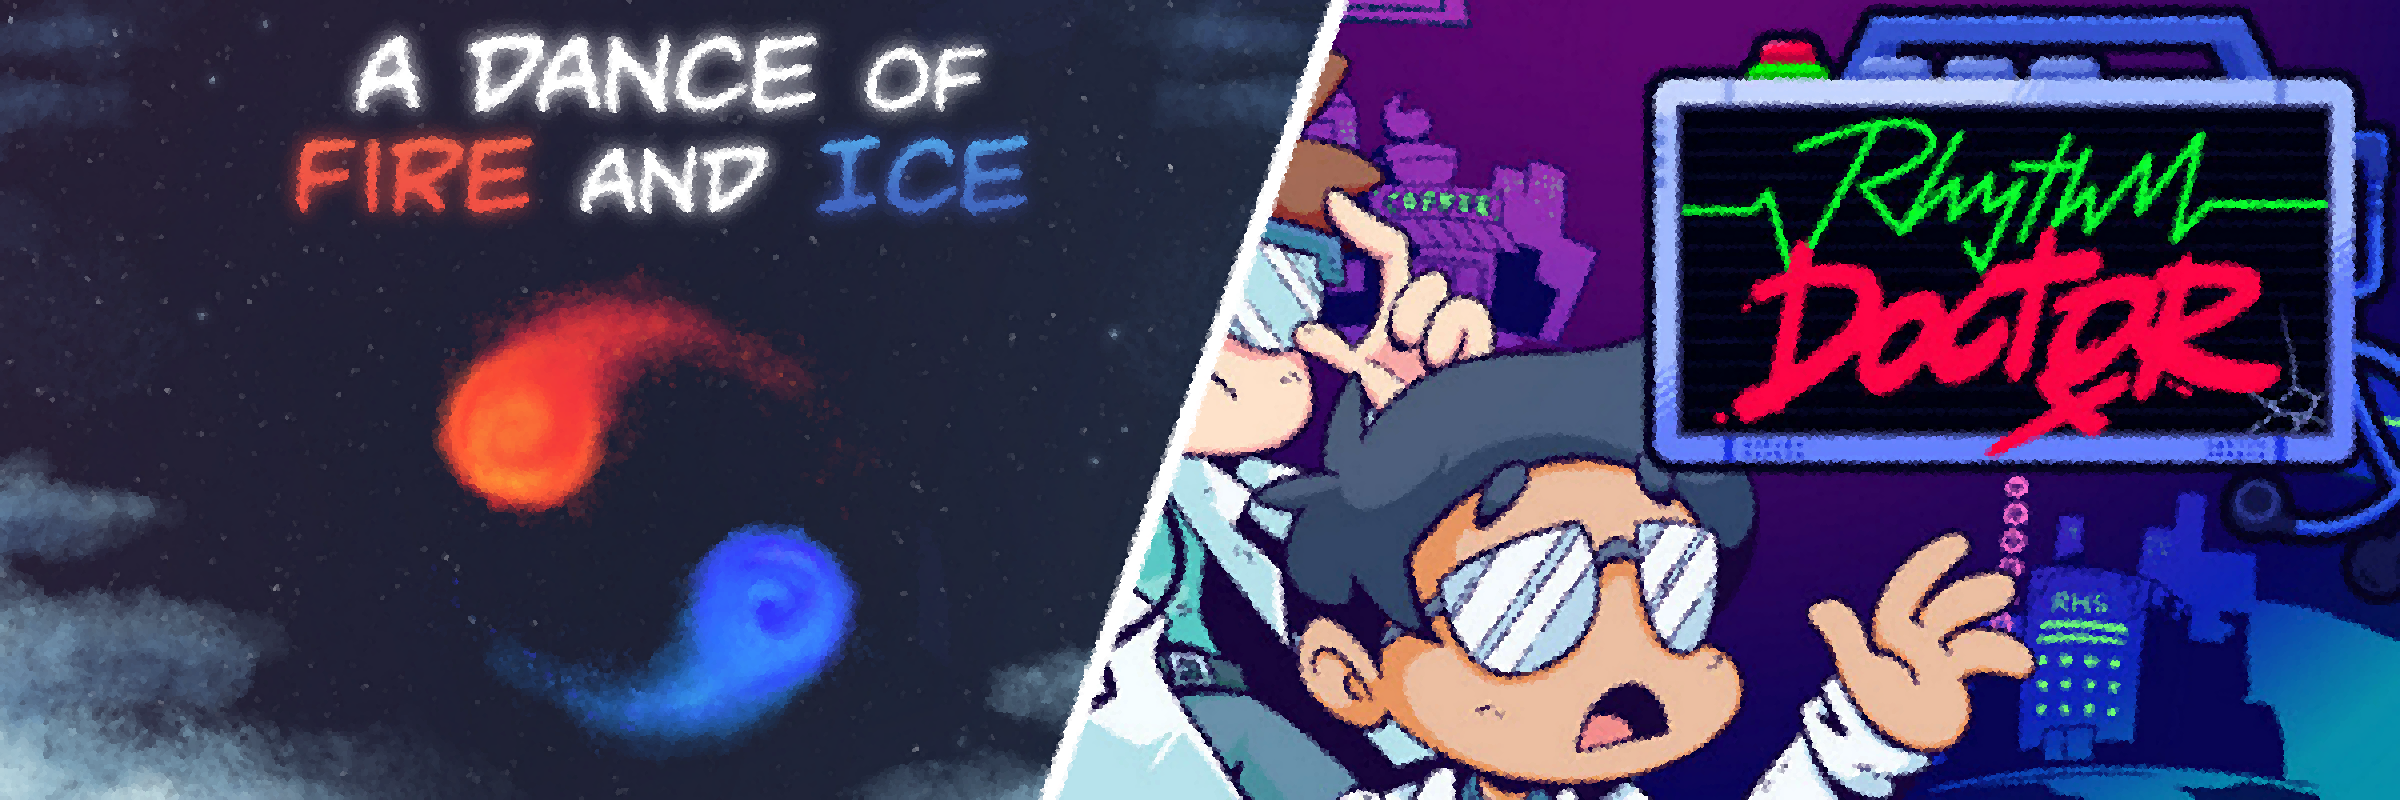
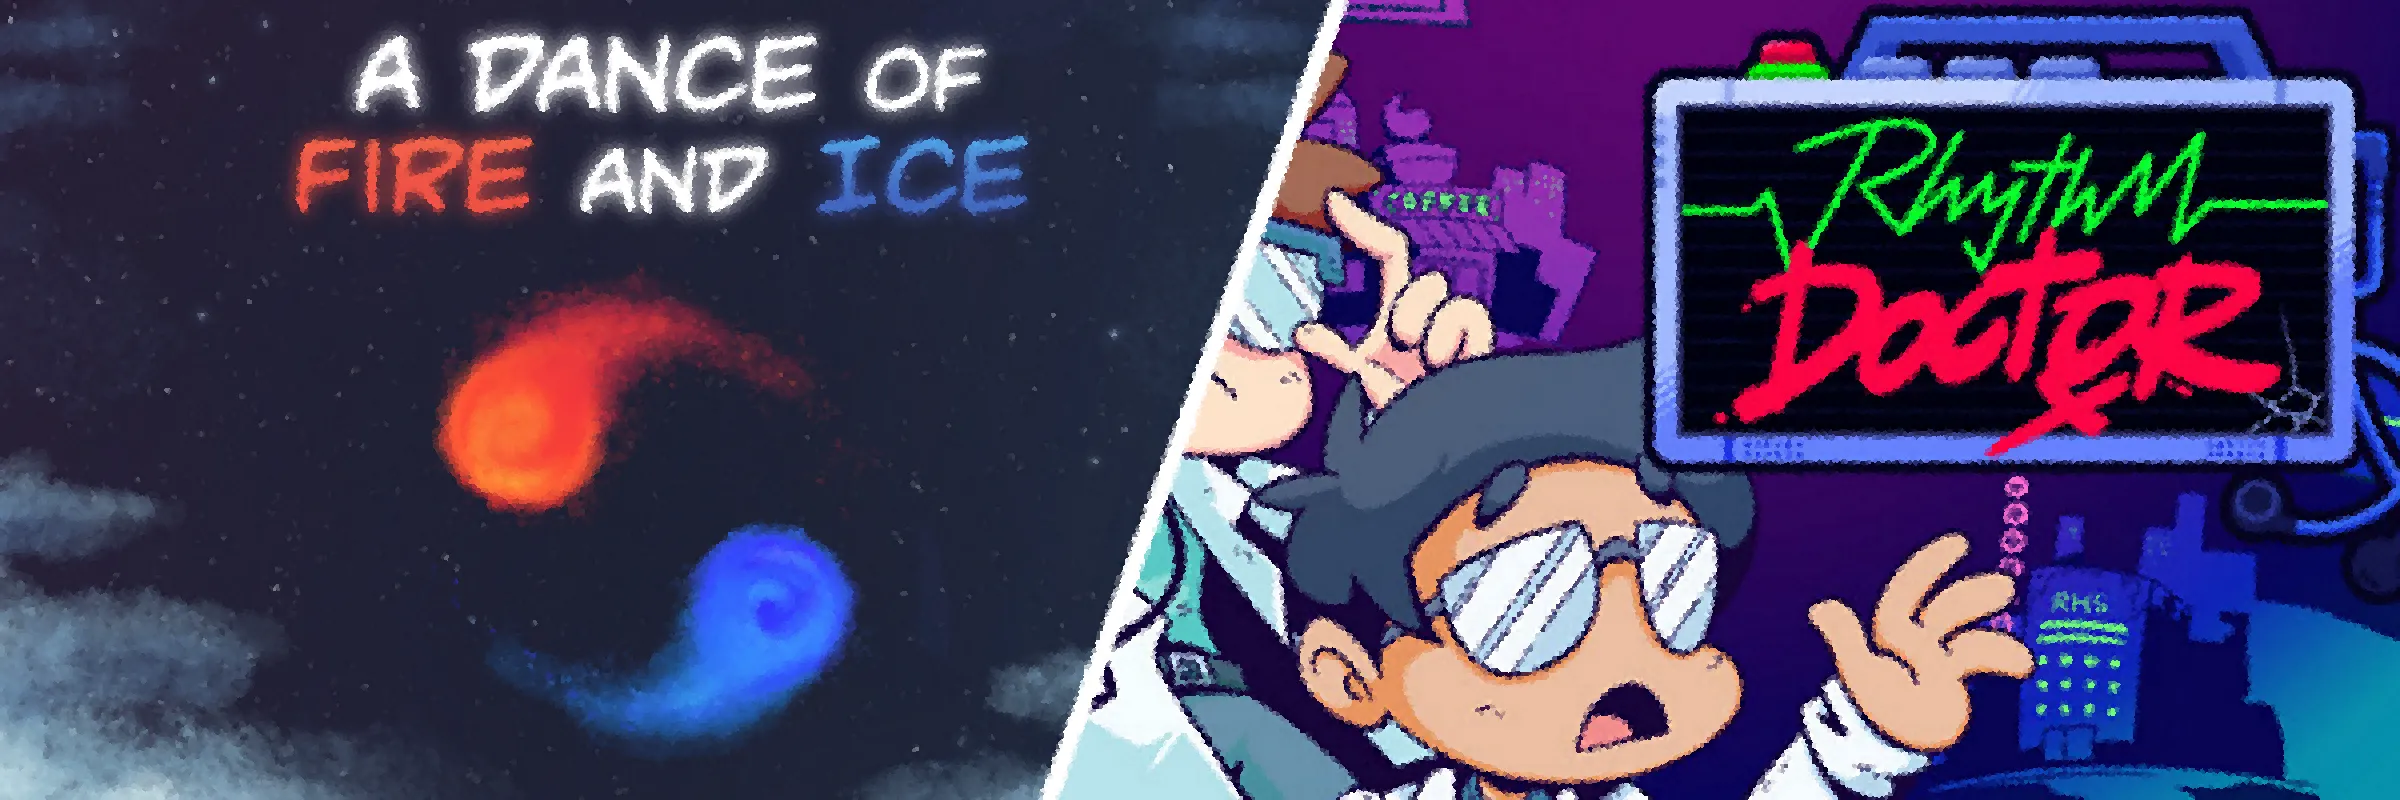
반응형 이미지 크기 수정

diff --git a/web/index.html b/web/index.html
@@ -18,8 +18,8 @@
                 <source data-src="{{ banner }}.webp" media="(min-width: 2400px; min-height: 800px)" class="banner">
                 <source data-src="{{ banner }}_x0.8.webp" media="(min-width: 1920px; min-height: 640px)" class="banner">
                 <source data-src="{{ banner }}_x0.6.webp" media="(min-width: 1440px; min-height: 480px)" class="banner">
-                <source data-src="{{ banner }}_x0.4.webp" media="(min-width: 976px)" class="banner">
-                <img data-src="{{ banner }}.webp" class="banner">
+                <source data-src="{{ banner }}_x0.4.webp" media="(min-width: 976px; min-height: 333.3333333333px)" class="banner">
+                <img data-src="{{ banner }}_x0.6.webp" class="banner">
             </picture>
             <p class="site-title">얼불춤 & 리듬닥터<br>통합 비공식 포럼</p>
         </section>

diff --git a/main.py b/main.py
@@ -54,6 +54,6 @@ if __name__ == '__main__':
     if '-local' in args: flask_args['host'] = '127.0.0.1'
 
     resized_images = ImageModifier.image_resizer(["./web/src/banner.png"], [0.8, 0.6, 0.4])[1]
-    ImageModifier.image_changer(resized_images, 'webp', lossless=True)
+    ImageModifier.image_changer(resized_images, 'webp', lossless=False)
     app.run(**flask_args)
 
